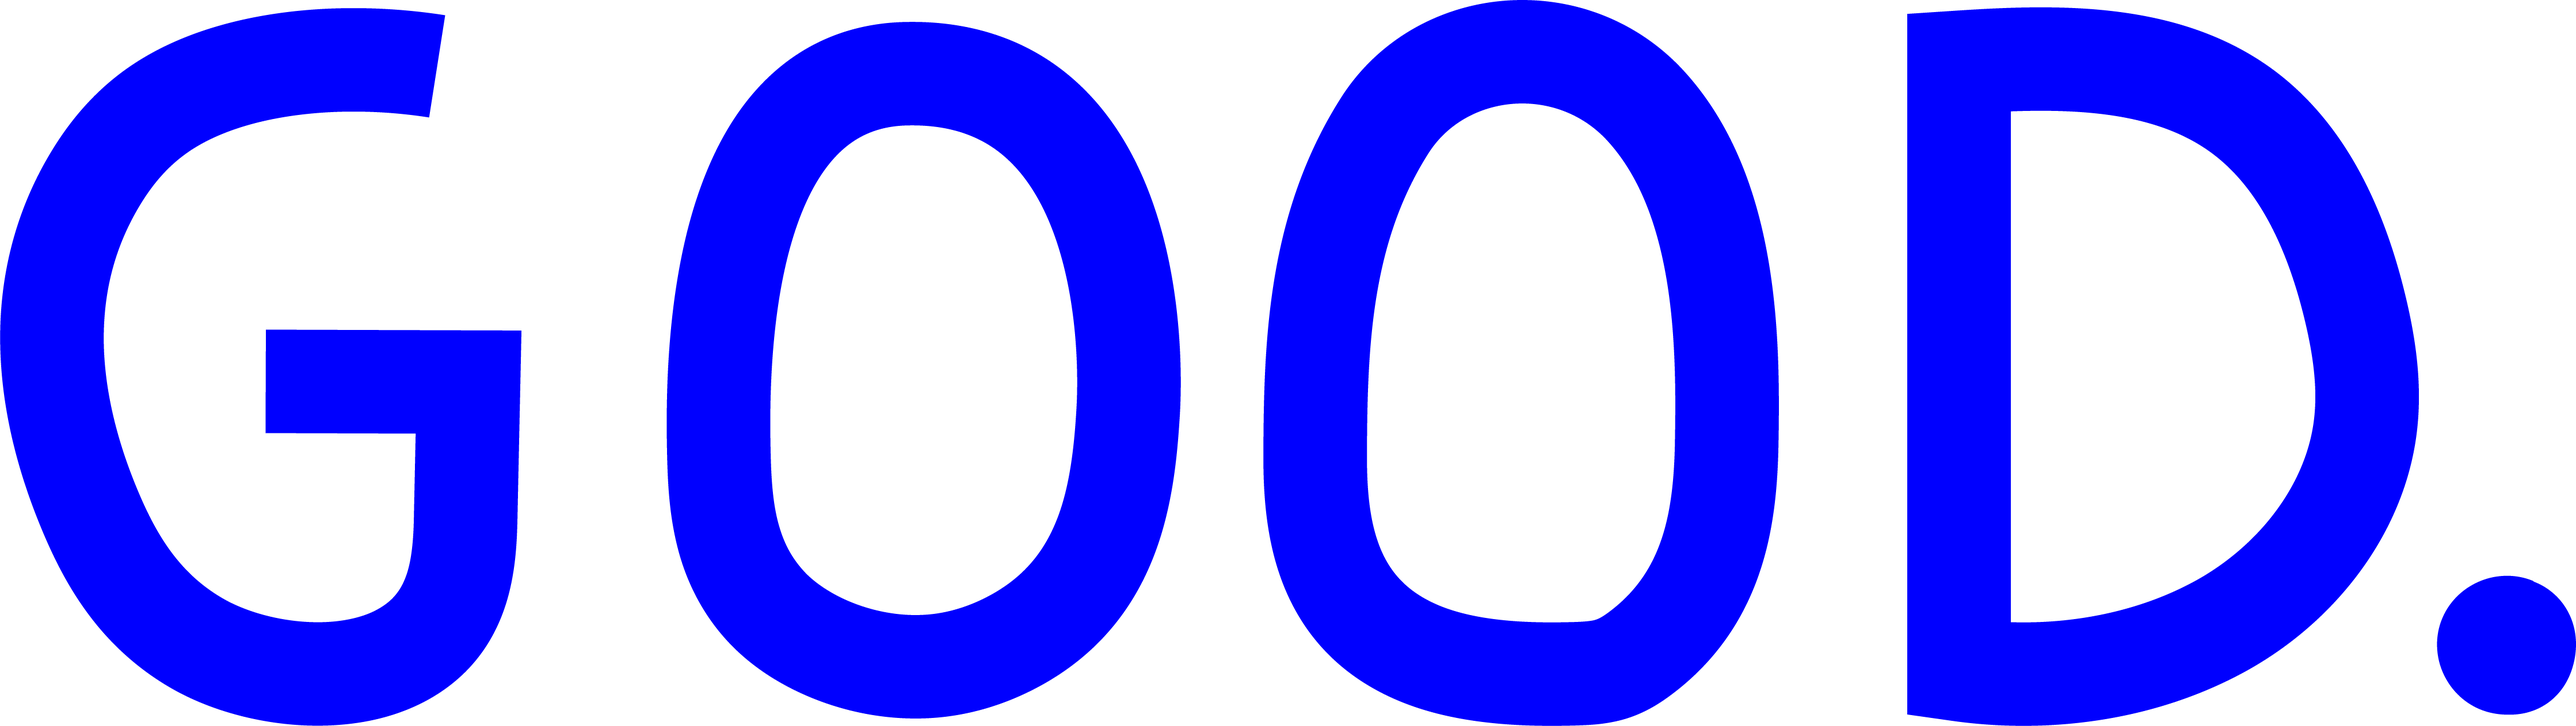
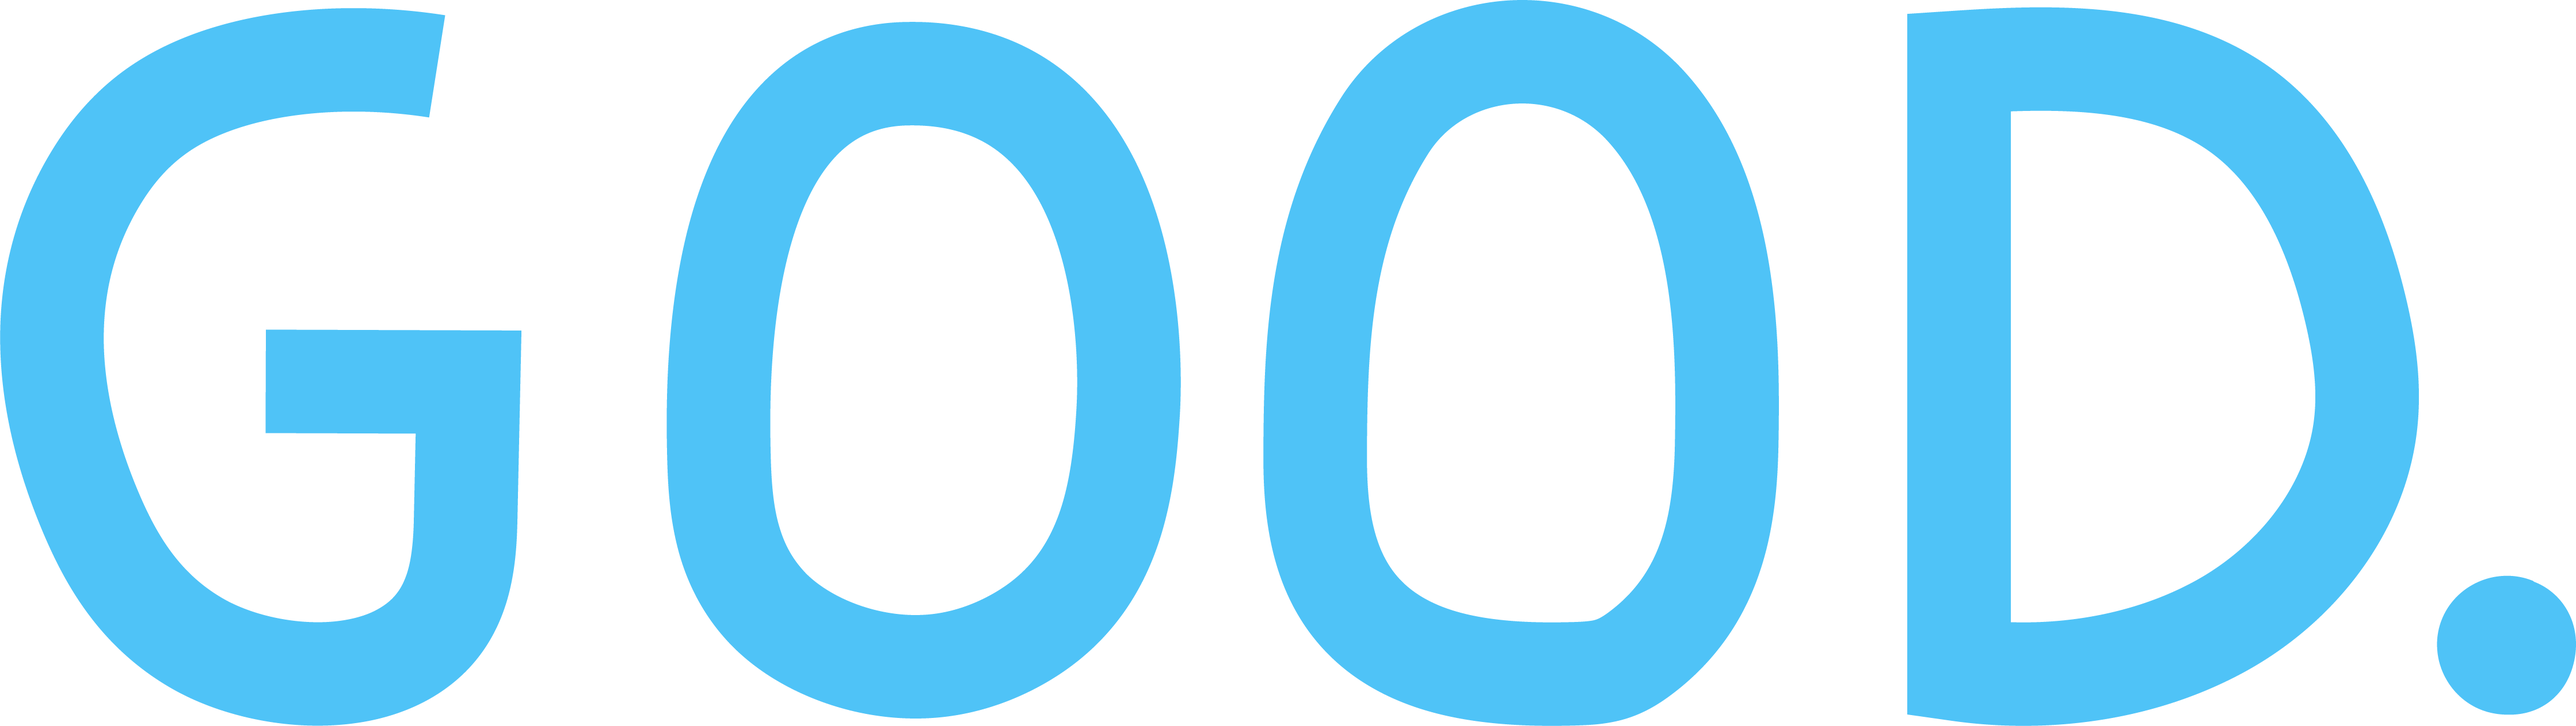
update color on good.png to #4fc3f7

diff --git a/client/src/components/About.js b/client/src/components/About.js
@@ -10,10 +10,22 @@ import './About.css';
 const About = () => {
   return (
     <div className="about-container">
-      <div style={{backgroundColor: 'black'}}>
+      <div class="video-div" style={{backgroundColor: 'black'}}>
         <video style={{width: '100%', opacity: '0.7', display: 'block'}} playsInline={true} autoPlay={true} muted={true} loop={true}>
           <source src="https://raw.githubusercontent.com/matthewcline/gosharegood/master/client/public/imgs/gsglandingpage.mp4" type="video/mp4"></source>
         </video>
+        <div class="overlay">
+            {/* <h1 style={{color: 'white'}}>Go. Share. Good.</h1> */}
+            <h1 style={{color: 'white'}}>Go. Share.</h1>
+            <h1>
+              <Image 
+                src="https://raw.githubusercontent.com/matthewcline/gosharegood/master/client/public/imgs/good.png" 
+                fluid 
+              />
+            </h1>
+            <p style={{color: 'white'}}>Where you see good news happening around the world.</p>
+            <button type="submit">Share</button>
+        </div>
       </div>
       <Container className="about-container-text">
         <Row className="justify-content-center text-center">

diff --git a/client/src/components/Navigation.css b/client/src/components/Navigation.css
@@ -3,17 +3,32 @@
   margin: 25px auto;
 }
 
+.about-nav {
+  color: white;
+}
+
+.about-nav .active {
+  color: #4fc3f7;
+}
+
+.about-nav .link-container:hover {
+  /* color: rgb(52,77,252); */
+  color: #e91e63;
+}
+
 .link-container {
   margin-right: 1px;
   cursor: pointer;
 }
 
 .link-container:hover {
-  color: rgb(52,77,252);
+  /* color: rgb(52,77,252); */
+  color: #e91e63;
 }
 
 .active {
-  color: rgb(22,32,64);
+  /* color: rgb(22,32,64); */
+  color: #0098df;
 }
 
 @media only screen and (min-width: 992px) {

diff --git a/client/src/components/About.css b/client/src/components/About.css
@@ -27,6 +27,23 @@
   width: 15rem;
 }
 
-.video-container {
-  width: 100%;
+.video-div { 
+  position: relative; 
+}
+
+.video-div video {
+    position: relative;
+    z-index: 0;
+}
+.overlay {
+    position: absolute;
+    top: 0;
+    left: 0;
+    height: 100%;
+    width: 100%;
+    display: flex;
+    flex-direction: column;
+    align-items: center;
+    justify-content: center;
+    z-index: 1;
 }

diff --git a/client/src/components/Navigation.js b/client/src/components/Navigation.js
@@ -61,7 +61,7 @@ class Navigation extends React.Component {
           (this.props.location.pathname === '/about' ? 'fixed-top' : '')
         }
       >
-        <Navbar expand="lg" className="navbar">
+        <Navbar expand="lg" className={this.props.location.pathname === '/about' ? 'about-nav' : 'navbar'}>
           <Navbar.Brand>
             <Link to="/posts">
               <Image 
